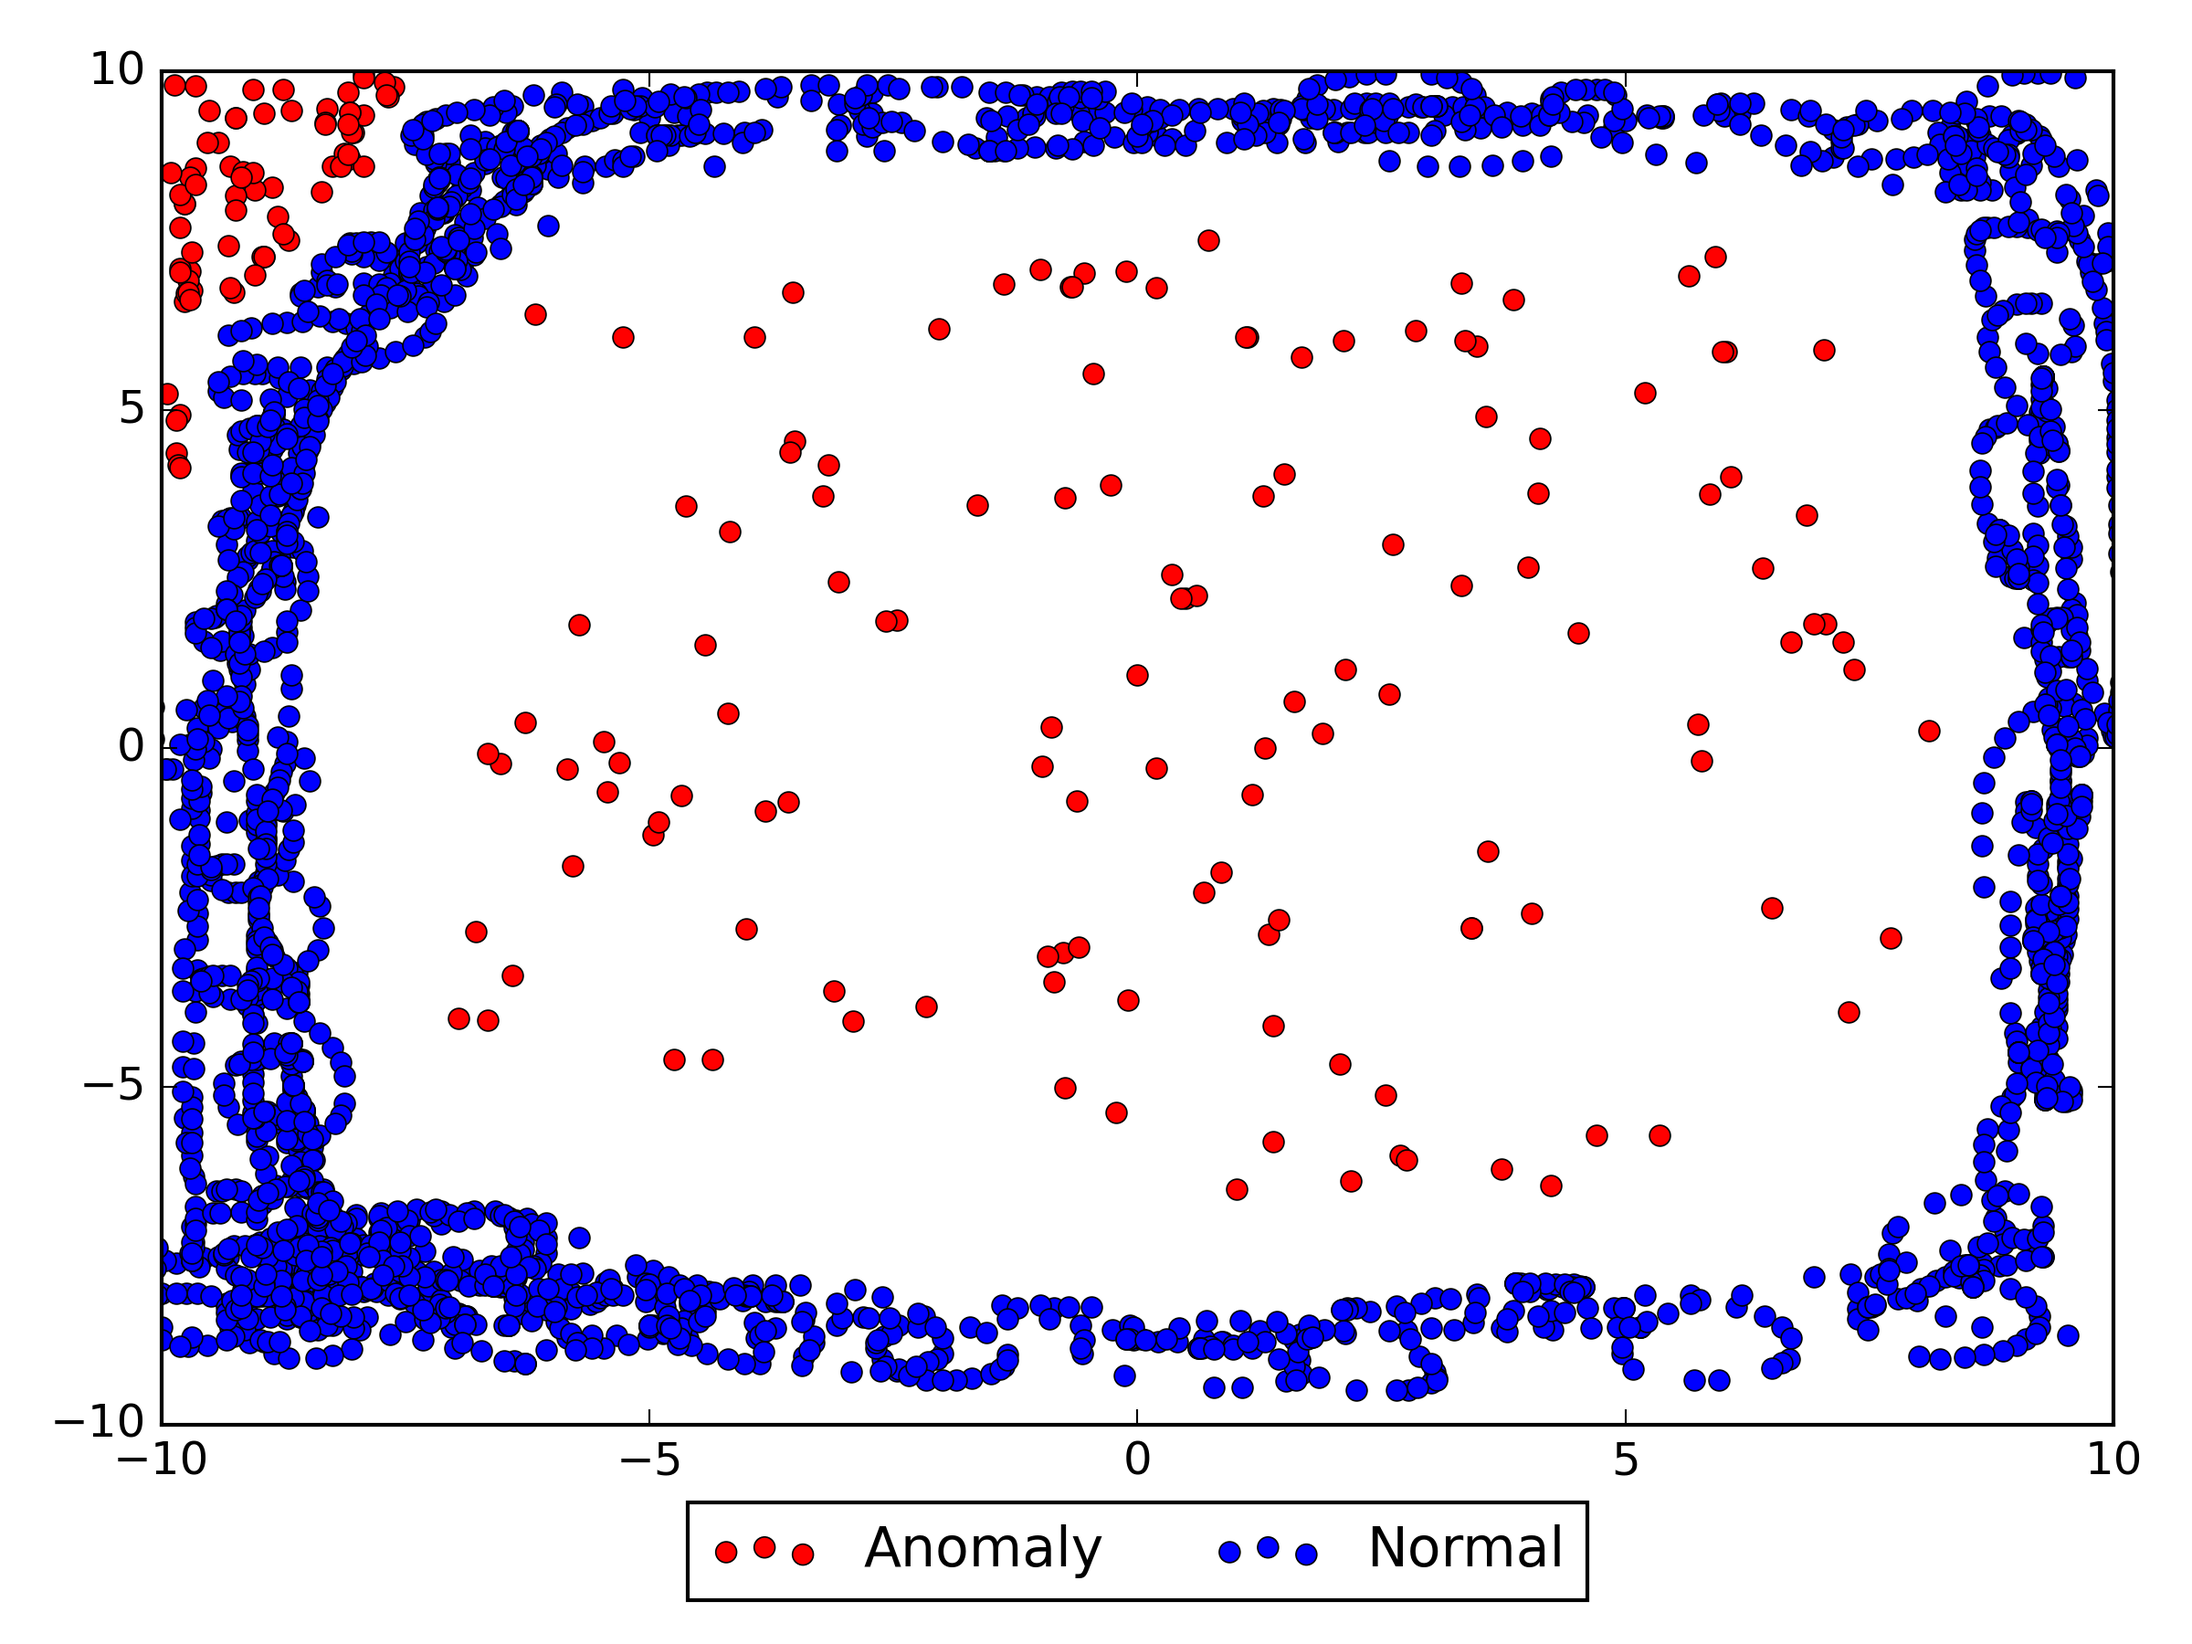
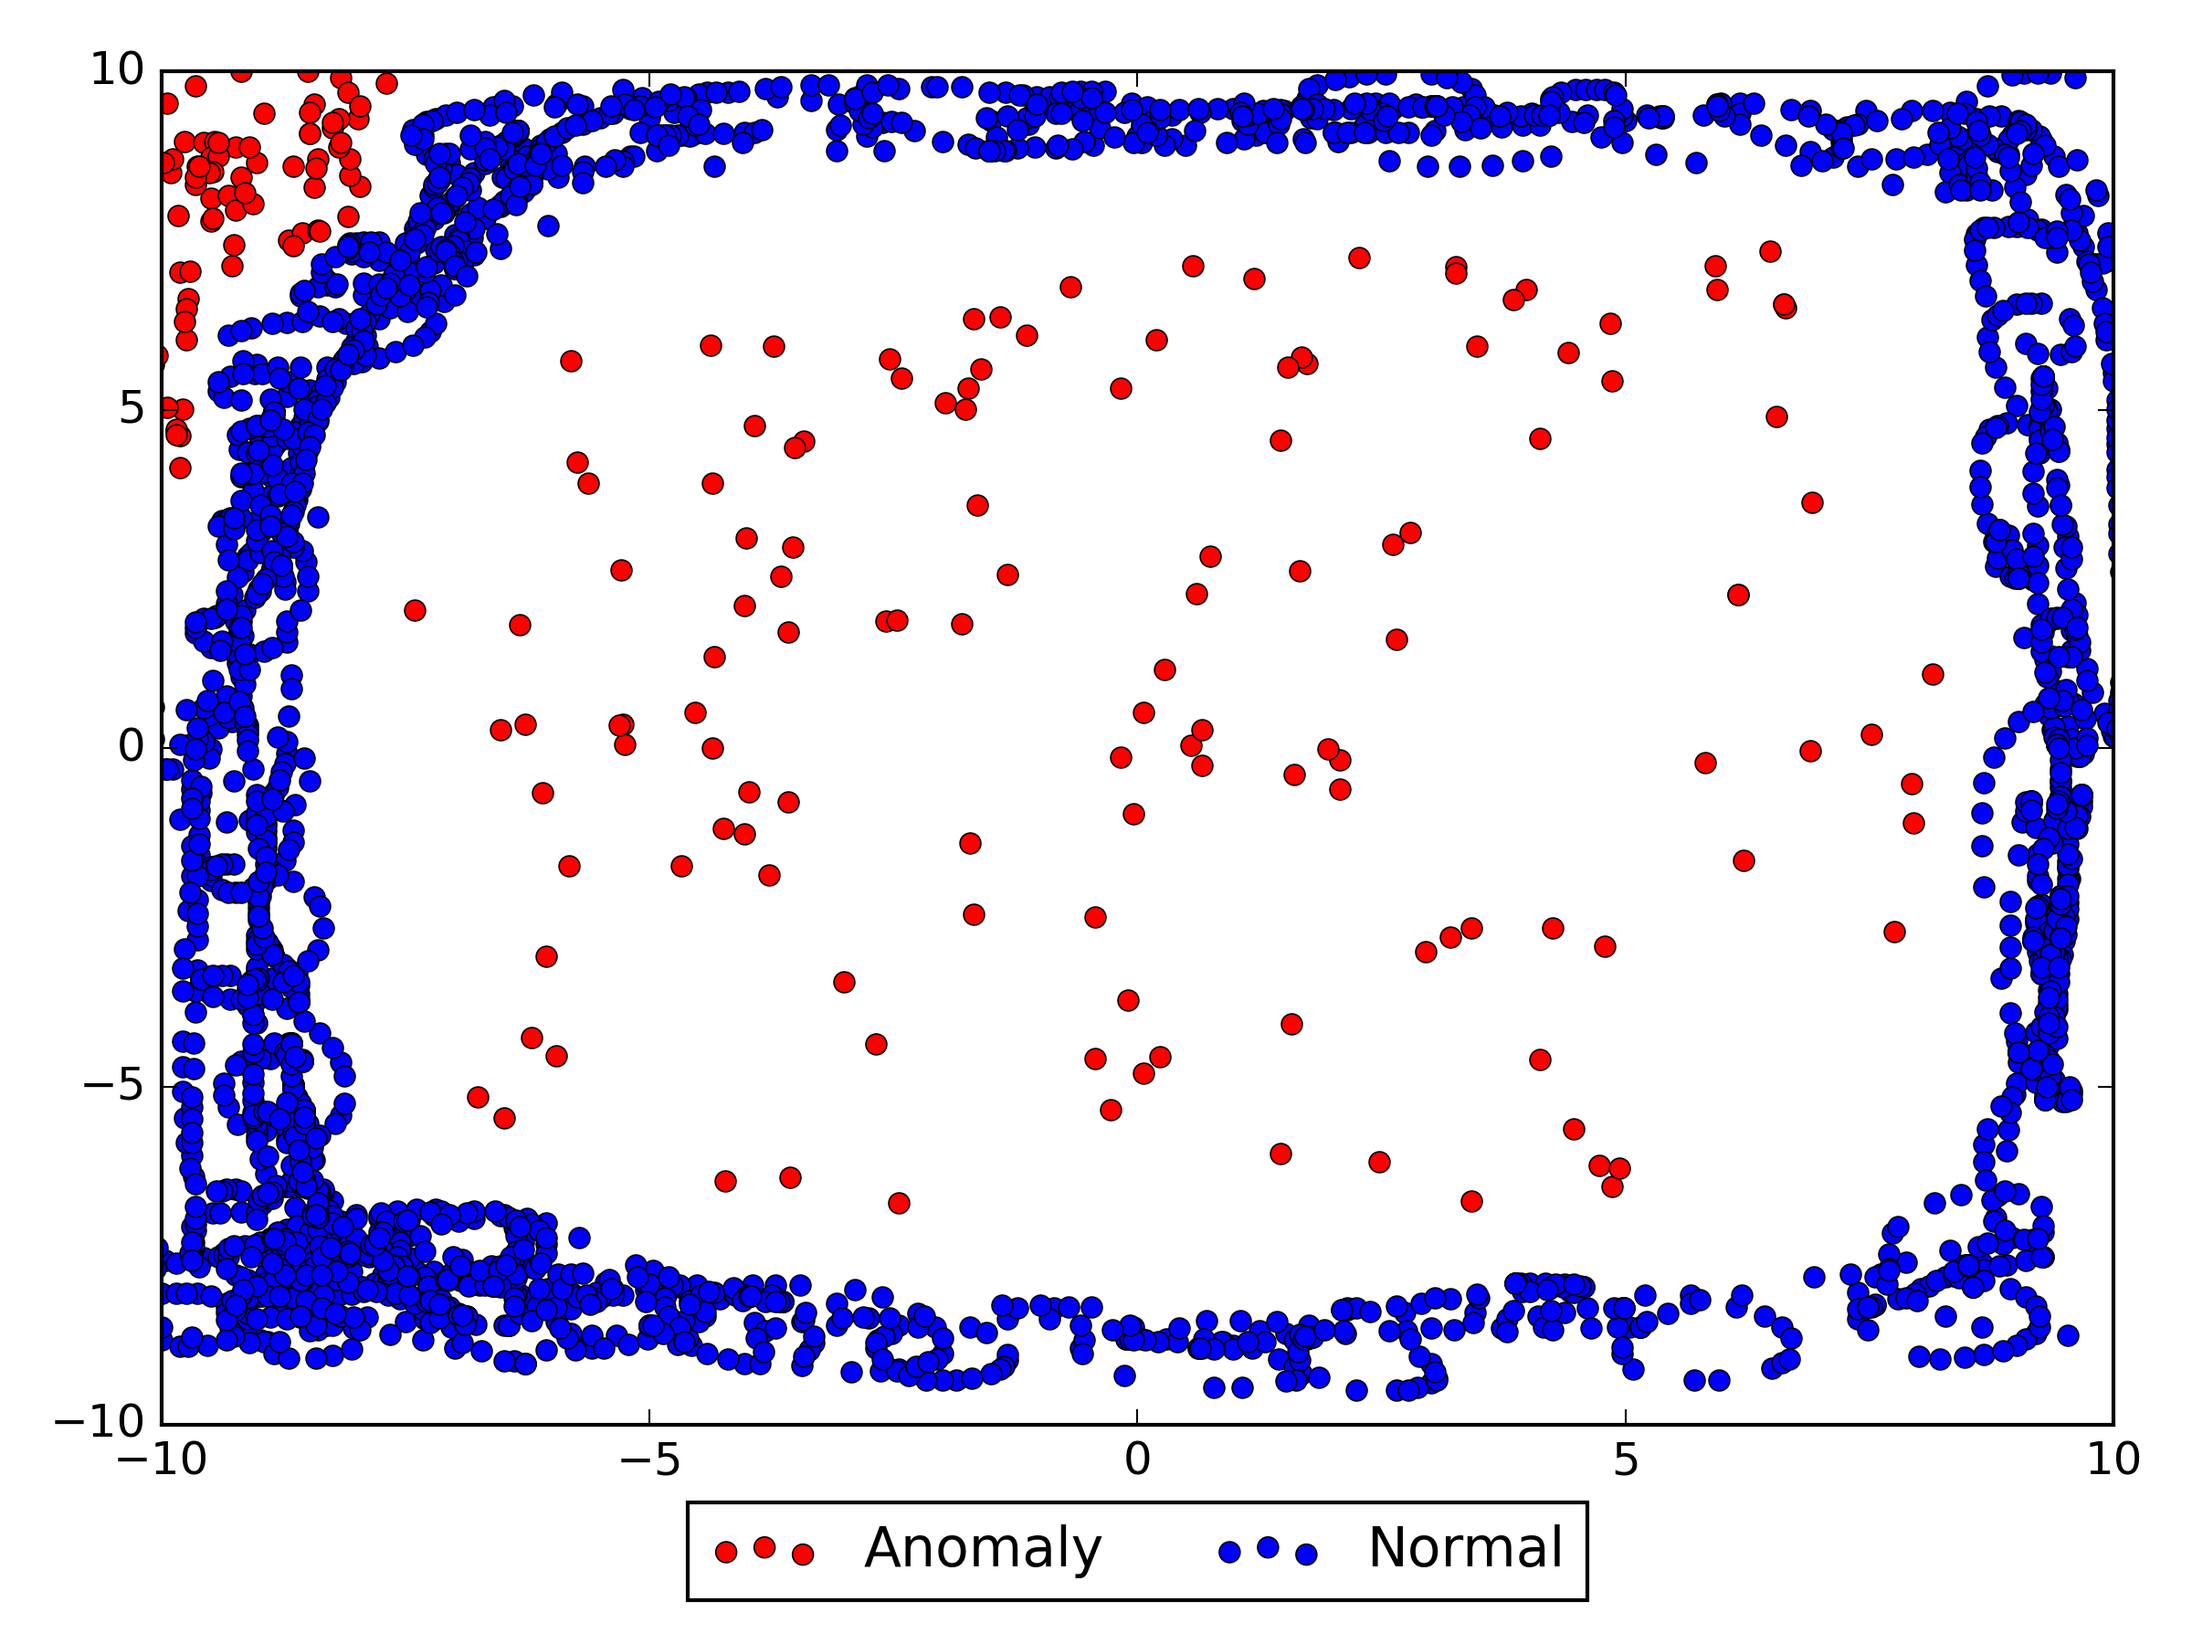
Add experiment

diff --git a/deep-semisup-anom-det/utils.py b/deep-semisup-anom-det/utils.py
@@ -110,7 +110,7 @@ def init_weights(net, init_type='normal', gain=0.02):
             classname = m.__class__.__name__
             if hasattr(m, 'weight') and (classname.find('Conv') != -1 or classname.find('Linear') != -1):
                 if init_type == 'normal':
-                    torch.nn.init.normal_(m.weight.data, mean=0.0, std=0.5)
+                    torch.nn.init.normal_(m.weight.data, mean=0.0, std=gain)
                 elif init_type == 'xavier':
                     torch.nn.init.xavier_normal_(m.weight.data, gain=gain)
                 elif init_type == 'kaiming':

diff --git a/deep-semisup-anom-det/network.py b/deep-semisup-anom-det/network.py
@@ -1,6 +1,8 @@
 import torch
 from torch import nn
 
+import utils
+
 
 # Simple MLP, decoder is used for pre-training
 class MLP(nn.Module):
@@ -20,7 +22,6 @@ class MLP(nn.Module):
         ).to(self.device)
 
         self.decoder = nn.Sequential(
-            nn.Flatten(),
             nn.Linear(rep_dim, num_features // 2, bias=bias),
             nn.ReLU(),
             nn.Linear(num_features // 2, num_features, bias=bias),

diff --git a/deep-semisup-anom-det/main.py b/deep-semisup-anom-det/main.py
@@ -104,8 +104,8 @@ def test(net, loader, c):
 def main():
     epochs_pre, epochs_tra = 15, 200
 
-    for i in range(5, 6):
-        dataset = f'dataset{i}'
+    for i in range(0, 7):
+        dataset = f'dataset{i + 1}'
 
         # Simple MLP with a symmetric decoder for pretraining
         net = MLP(input_size=2, num_features=512, rep_dim=16)
